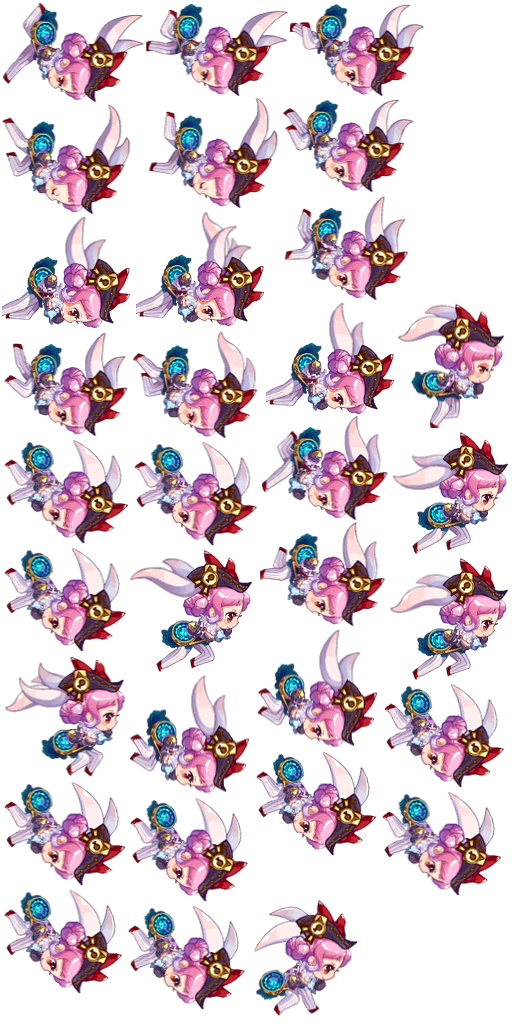
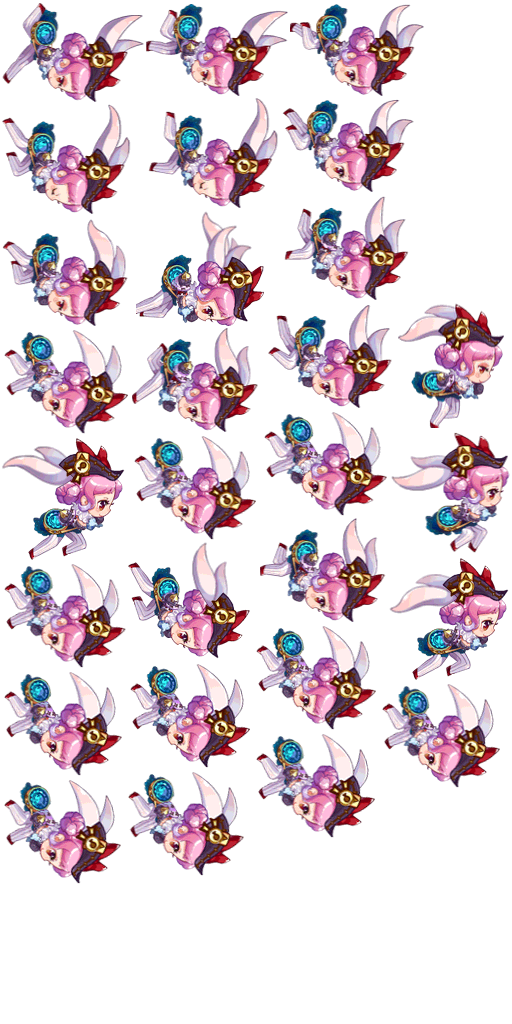
update

diff --git a/Classes/OperateLayer.cpp b/Classes/OperateLayer.cpp
@@ -157,7 +157,12 @@ void OperateLayer::onEnter()
             if (this->isTap(m_pJoystickBg, p))
             {
                 m_pHero->attack();
-				Vec2 direction = m_pTarget->getPosition() - m_pHero->getPosition();
+				Vec2 pos;
+				if (m_pHero->isFlippedX())
+					pos = m_pHero->getPosition() + Vec2(-15.f, -20.f);
+				else
+					pos = m_pHero->getPosition() + Vec2(15.f, -20.f);
+				Vec2 direction = m_pTarget->getPosition() - pos;
 				direction.normalize();
 				m_pHero->setShootDirection(direction);
 				m_firstTouchJoystickLocation = p;
@@ -224,7 +229,12 @@ void OperateLayer::onEnter()
 			Vec2 v = m_pHero->getPhysicsBody()->getVelocity();
 			m_pTarget->setDirection(direction * distance * m_pTarget->getVelocity() + v);
 			m_pTarget->setIsStatic(false);
-			direction = m_pTarget->getPosition() - m_pHero->getPosition();
+			Vec2 pos;
+			if (m_pHero->isFlippedX())
+				pos = m_pHero->getPosition() + Vec2(-15.f, -20.f);
+			else
+				pos = m_pHero->getPosition() + Vec2(15.f, -20.f);
+			direction = m_pTarget->getPosition() - pos;
 			direction.normalize();
 			m_pHero->setShootDirection(direction);
 			m_preTouchJoystickLocation = p;

diff --git a/Classes/Princess.cpp b/Classes/Princess.cpp
@@ -31,8 +31,8 @@ bool Princess::init()
 		Animation *pJumpRotateAnim = this->createAnimation("QW_jump_06.png", 1, 30);
 		this->setJump2Action(Sequence::create(Animate::create(pJumpRotateAnim), RotateBy::create(0.2f, 360), RepeatForever::create(Animate::create(pJumpAnim)), nullptr));
 
-		Animation *pDown1Anim = this->createAnimation("QW_down_%02d.png", 12, 15);
-		Animation *pDown2Anim = this->createAnimation("QW_down_12.png", 1, 15);
+		Animation *pDown1Anim = this->createAnimation("QW_down_%02d.png", 2, 15);
+		Animation *pDown2Anim = this->createAnimation("QW_down_02.png", 1, 15);
 		this->setDownAction(Sequence::create(Animate::create(pDown1Anim), RepeatForever::create(Animate::create(pDown2Anim)), nullptr));
 
 		Animation *pWalkFireAnim = this->createAnimation("QW_walk_%02d.png", 12, 15);

diff --git a/Classes/GameLayer.cpp b/Classes/GameLayer.cpp
@@ -268,6 +268,12 @@ void GameLayer::onEnter()
 			{
 				hero->setIsOnRotateGround(false);
 			}
+
+			if ((hero->getCurrActionState() == ACTION_STATE_MOVE && hero->isInMoveAction(MOVE_STATE_WALK)) || hero->getCurrActionState() == ACTION_STATE_IDLE)
+			{
+				hero->stopMoveAction(MOVE_STATE_WALK, false);
+				m_pHero->runJumpAction(false);
+			}
 		}
 	};
 	_eventDispatcher->addEventListenerWithSceneGraphPriority(contactListener, this);
